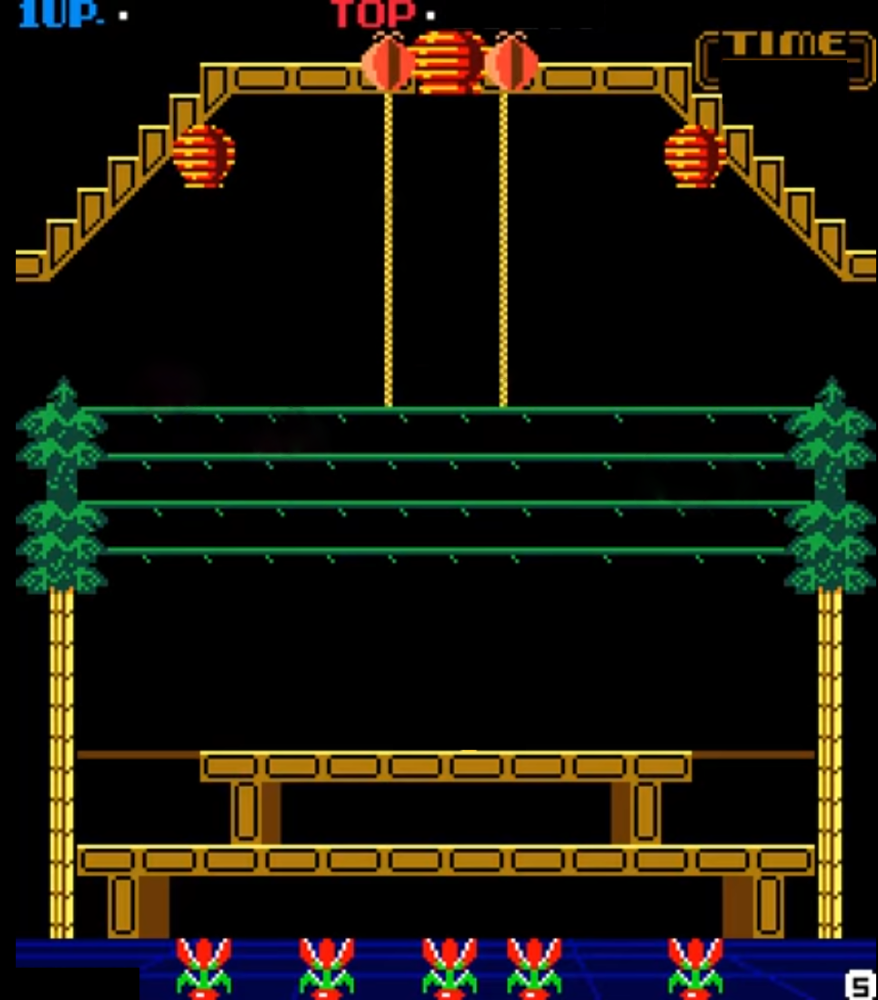
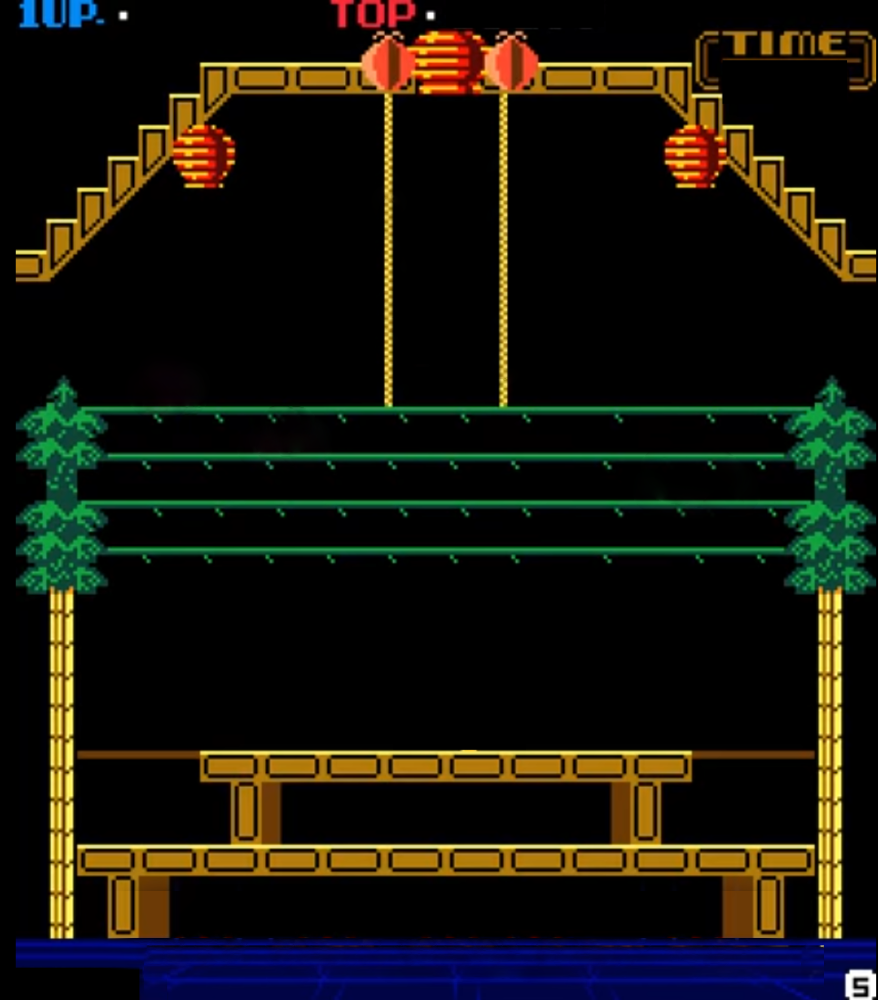
Flower

Changed region(s): [[0.1538, 0.93, 0.9533, 1.0]]

diff --git a/DonkeyKong3.java b/DonkeyKong3.java
@@ -35,6 +35,7 @@ public class DonkeyKong3 extends JPanel implements ActionListener, KeyListener {
     private boolean stubbed = false;
     private boolean death = false;
     private ArrayList<Enemy> enemy = new ArrayList<Enemy>(aiLevel);
+    private ArrayList<Flower> flowers = new ArrayList<Flower>();
     private ArrayList<String> debugConsole = new ArrayList<String>();
     private int[] enemyVariety = new int[8];
     private static final SimpleDateFormat sdf = new SimpleDateFormat("HH:mm:ss");
@@ -66,7 +67,7 @@ public class DonkeyKong3 extends JPanel implements ActionListener, KeyListener {
         myFrame.setDefaultCloseOperation(WindowConstants.EXIT_ON_CLOSE);
         requestFocusInWindow();
         addKeyListener(this);
-        setEnemy();
+        setEnemyandFlowers();
         try {
             setHighScore();
         } catch (IOException e) {
@@ -78,10 +79,13 @@ public class DonkeyKong3 extends JPanel implements ActionListener, KeyListener {
 
     }
 
-    public void setEnemy() {
+    public void setEnemyandFlowers() {
         for (int x = 0; x < enemyVariety.length; x++) {
             enemyVariety[x] = (int) (Math.random() * 4);
             enemy.add(new Enemy(enemyVariety[x]));
+        }
+        for (int x = 0; x < 5; x++) {
+            flowers.add(new Flower());
         }
     }
 
@@ -156,6 +160,26 @@ public class DonkeyKong3 extends JPanel implements ActionListener, KeyListener {
                 delta3--;
             }
             if (timer3 >= 40000000) {
+                if (!death) {
+                    for (int x = 0; x < enemy.size(); x++) {
+                        for (int y = 0; y < flowers.size(); y++) {
+                            if (enemy.get(x).getPursue() && flowers.get(y).getPosX() >= enemy.get(x).getPosX() - 50
+                                    && flowers.get(y).getPosX() <= enemy.get(x).getPosX() + 50 && flowers.get(y).getPosY() >= enemy.get(x).getPosY() - 50
+                                    && flowers.get(y).getPosY() <= enemy.get(x).getPosY() + 50) {
+                                        flowers.get(y).draggedAway(enemy.get(x).getPosX(), enemy.get(x).getPosY());
+                            }
+                            // else if (flowers.get(y).getDragged() && enemy.get(x).getPursue() && flowers.get(y).getPosX() >= enemy.get(x).getPosX() - 50
+                            // && flowers.get(y).getPosX() <= enemy.get(x).getPosX() + 50 && flowers.get(y).getPosY() >= enemy.get(x).getPosY() - 50
+                            // && flowers.get(y).getPosY() <= enemy.get(x).getPosY() + 50) {
+                            //     flowers.get(y).dropped();
+                            // }
+                            if (flowers.get(y).getPosY() <= 75) {
+                                flowers.remove(y);
+                                bonusScore -= 100;
+                            }
+                        }
+                    }
+                }
                 if (level == 0) {
                     if (up && playerY > previousYLoc - 120 && !decending && jumpCount < 24) {
                         playerY -= 15;
@@ -469,6 +493,16 @@ public class DonkeyKong3 extends JPanel implements ActionListener, KeyListener {
         for (int x = 0; x < lives; x++) {
             g2.drawImage(tool.getImage("sprites/misc/Lives.png"), count, 950, 30, 40, this);
             count += 50;
+        }
+
+        int count2 = 200;
+        for (Flower f : flowers) {
+            f.setPosX(count2);
+            count2 += 150;
+        }
+
+        for (Flower f : flowers) {
+            g2.drawImage(tool.getImage("sprites/misc/Flower.png"), f.getPosX(), f.getPosY(), f.getSizeX(), f.getSizeY(), this);
         }
 
         if (dk.getBarrel() && !dkB.getThrown()) {

diff --git a/Flower.java b/Flower.java
@@ -1,0 +1,48 @@
+public class Flower {
+    private int posX = 200;
+    private int posY = 920;
+    private int sizeX = 55;
+    private int sizeY = 55;
+    private boolean dragging = false;
+
+    public void draggedAway(int posX, int posY) {
+        this.posX = posX;
+        this.posY -= 15;
+        dragging = true;
+        if (posY < 75) {
+            posY = -50;
+            dragging = true;
+        }
+    }
+
+    public void setPosX(int posX) {
+        this.posX = posX;
+    }
+
+    public void dropped() {
+        if (posY <= 900) {
+            this.posY += 50;
+            dragging = false;
+        }
+    }
+
+    public boolean getDragged() {
+        return dragging;
+    }
+
+    public int getPosX() {
+        return posX;
+    }
+
+    public int getPosY() {
+        return posY;
+    }
+
+    public int getSizeX() {
+        return sizeX;
+    }
+
+    public int getSizeY() {
+        return sizeY;
+    }
+}
